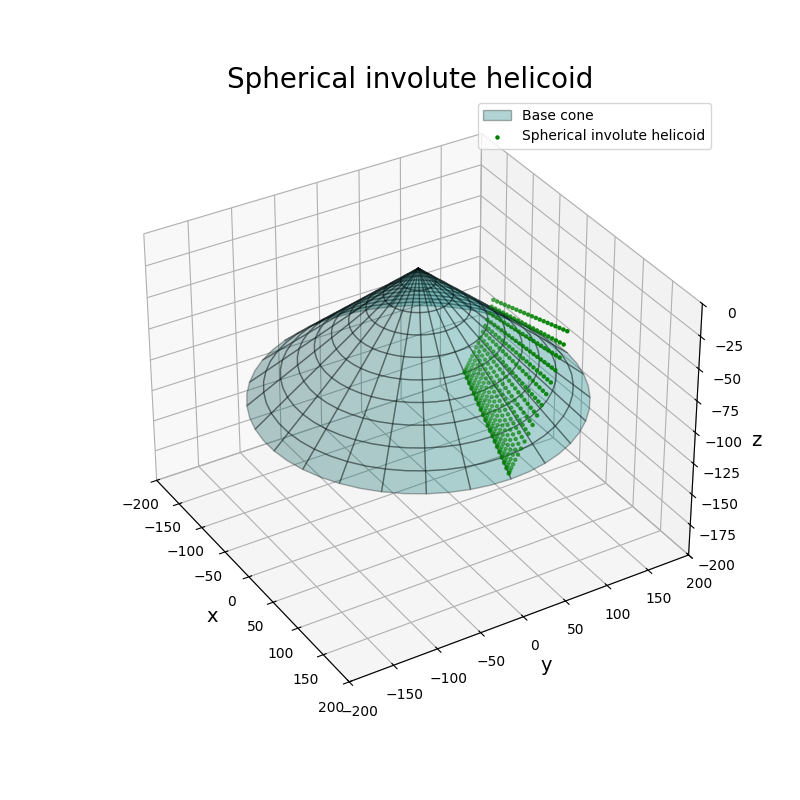
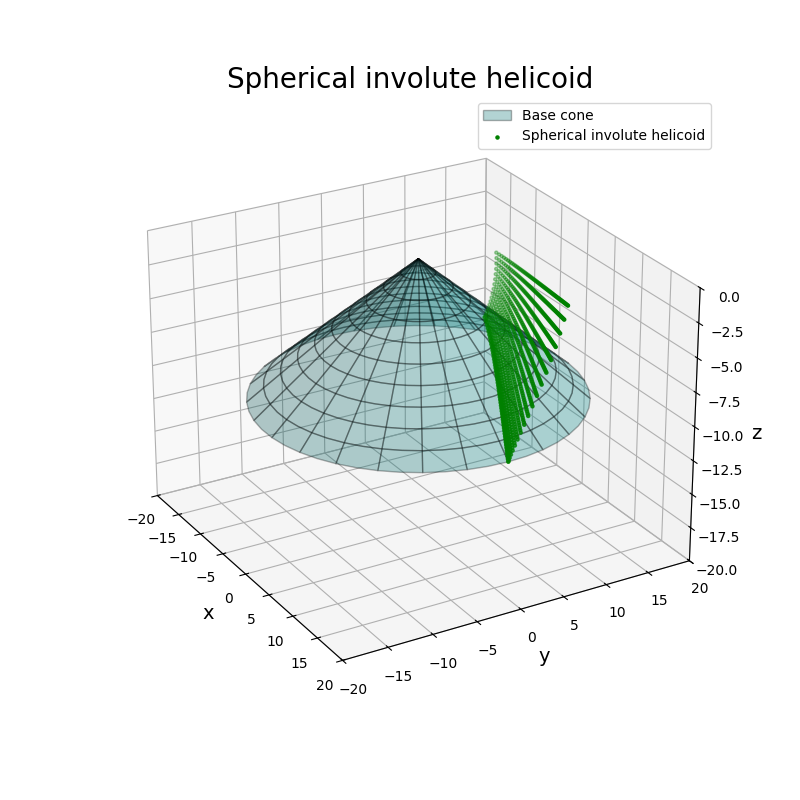
Helix angle added.

Changed region(s): [[0.1562, 0.1875, 0.9688, 0.9062]]

diff --git a/src/main.rs b/src/main.rs
@@ -6,15 +6,17 @@ use quaternion_core as quat;
 
 const PI: f64 = std::f64::consts::PI;
 
-// --- 基礎円錐諸元 --- //
-const GENERATRIX: f64 = 200.0;  // 基礎円錐の母線長 [mm]
+// --- 球面インボリュートヘリコイド諸元 --- //
+const BETA: f64 = 20.0 * (PI / 180.0); // ねじれ角 [rad]
+const GENERATRIX: f64 = 20.0;          // 基礎円錐の母線長 [mm]
 const PHI: f64 = 60.0 * (PI / 180.0);  // 基礎円錐角 [rad]
+
 const PSI: f64 = 0.5 * PI - PHI;
 
 // ----- 計算設定 ----- //
-const N_GEN: usize = 20;
-const DELTA_GEN: f64 = 0.025;  // [mm]
-const N_THETA: usize = 20;
+const N_WIDTH: usize = 50;     // 歯幅の分割数
+const DELTA_WIDTH: f64 = 0.25; // [mm]
+const N_THETA: usize = 20;     // θの分割数
 const DELTA_THETA: f64 = 0.1;  // [rad]
 
 fn main() {
@@ -27,10 +29,9 @@ fn main() {
     // 基礎円錐を描画するための座標計算
     calc_base_cone(&mut base_cone_surface, 10, 50);
 
-    for i in 0..N_GEN {
-        let gen = GENERATRIX * ((DELTA_GEN * i as f64) + 0.5);
+    for i in 0..N_WIDTH {
         for j in 0..N_THETA {
-            let s = spherical_inv(gen, DELTA_THETA * j as f64);
+            let s = spherical_inv(DELTA_WIDTH * i as f64, DELTA_THETA * j as f64);
 
             // データ書き出し
             tooth_surface.write( format!("{:.4},{:.4},{:.4}\n", s[0], s[1], s[2]).as_bytes() ).unwrap();
@@ -38,36 +39,45 @@ fn main() {
     }
 }
 
-/// 球面インボリュート
+/// 球面インボリュートヘリコイド
 /// 
-/// * geberatrix: 基礎円錐の母線長 [mm]
-/// * theta: 基礎円錐上を転がる円盤の、初期位置からの回転角 [rad]
-fn spherical_inv(generatrix: f64, theta: f64) -> quat::Vector3<f64> {
+/// bは基礎円錐の母線に沿ったものであり，b=0において基礎円錐の底面に接する．
+/// 
+/// * b: 歯幅 [mm]
+/// * theta: 基礎円錐上を転がる仮想円盤の、初期位置からの回転角 [rad]
+fn spherical_inv(b: f64, theta: f64) -> quat::Vector3<f64> {
     let tau = PHI.sin() * theta;
-    let r = generatrix * PHI.sin();  // 円錐底面半径
-    let a = [r, 0.0, -generatrix * PHI.cos()];
+    let a = [(GENERATRIX - b) * PHI.sin(), 0.0, -(GENERATRIX - b) * PHI.cos()];
     let c = [PSI.sin(), 0.0, PSI.cos()];
 
-    let q_z = quat::from_axis_angle([0.0, 0.0, 1.0], theta);
+    let theta_offset = calc_theta_offset(b);  // ねじれ角分を補正
+    let q_z = quat::from_axis_angle([0.0, 0.0, 1.0], theta_offset + theta);
     let q_c = quat::from_axis_angle(c, -tau);
 
     let tmp = quat::mul(q_z, q_c);
     quat::point_rotation(tmp, a)
 }
 
+/// ねじれ角を与えた場合の、球面インボリュート曲線の開始角度オフセットを計算する．
+/// 
+/// * b: 歯幅 [mm]
+fn calc_theta_offset(b: f64) -> f64 {
+    let gamma = (GENERATRIX * BETA.sin() / (GENERATRIX - b)).asin() - BETA;
+    gamma / PHI.sin()
+}
+
 /// 基礎円錐を計算してファイルに書き出す
 fn calc_base_cone(f: &mut BufWriter<fs::File>, gen_split: usize, theta_split: usize) {
     for i in 0..(gen_split + 1) {
         let gen = (GENERATRIX / gen_split as f64) * (i as f64);
-        let z = -gen * PHI.cos();
-        let r = gen * PHI.sin();  // 円錐底面半径
+        let a = [gen * PHI.sin(), 0.0, -gen * PHI.cos()];
         for j in 0..(theta_split + 1) {
             let theta = (2.0 * PI / theta_split as f64) * j as f64;
 
-            let x = r * theta.cos();
-            let y = r * theta.sin();
+            let q = quat::from_axis_angle([0.0, 0.0, 1.0], theta);
+            let b = quat::point_rotation(q, a);
 
-            f.write( format!("{:.7},{:.7},{:.7}\n", x, y, z).as_bytes() ).unwrap();
+            f.write( format!("{:.4},{:.4},{:.4}\n", b[0], b[1], b[2]).as_bytes() ).unwrap();
         }
     }
 }

diff --git a/data_plot.py b/data_plot.py
@@ -39,7 +39,7 @@ ax.set_ylabel("y", size = 14)
 ax.set_zlabel("z", size = 14)
 
 # 軸の範囲を設定
-axis_range = 200
+axis_range = 20
 ax.set_xlim(-axis_range, axis_range)
 ax.set_ylim(-axis_range, axis_range)
 ax.set_zlim(-axis_range, 0)
